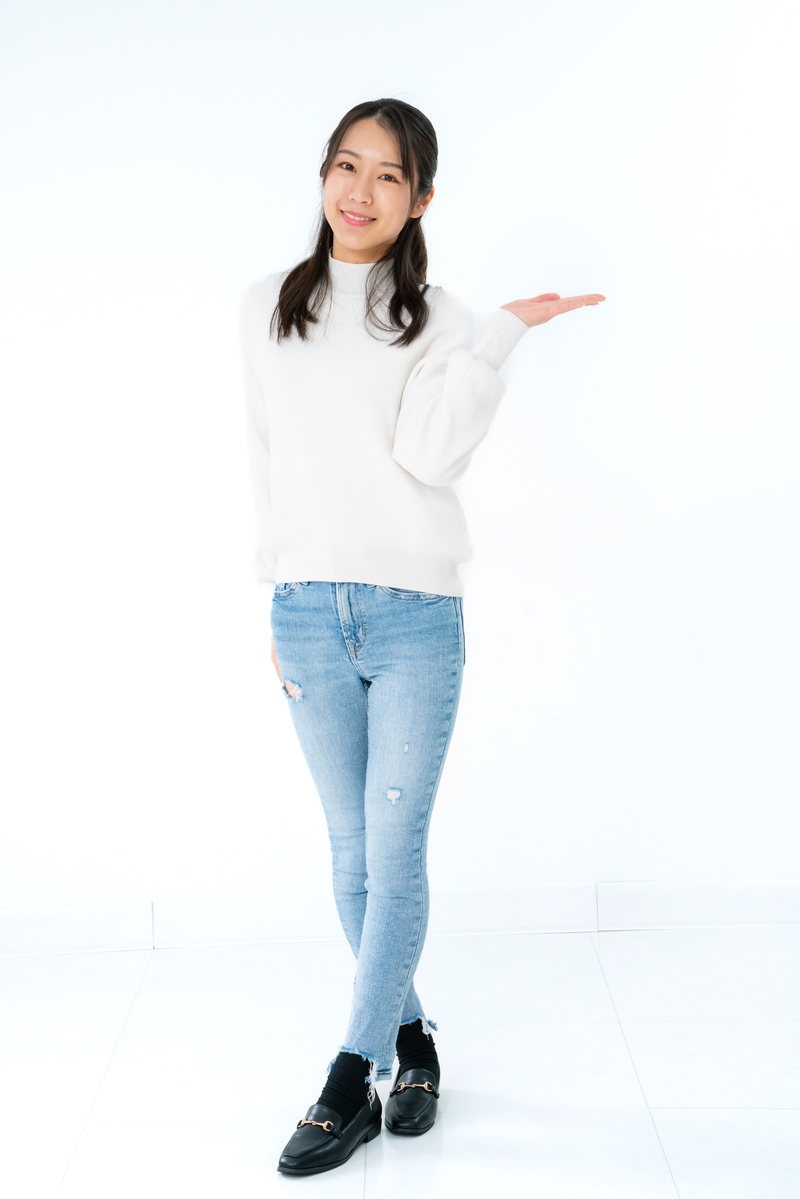
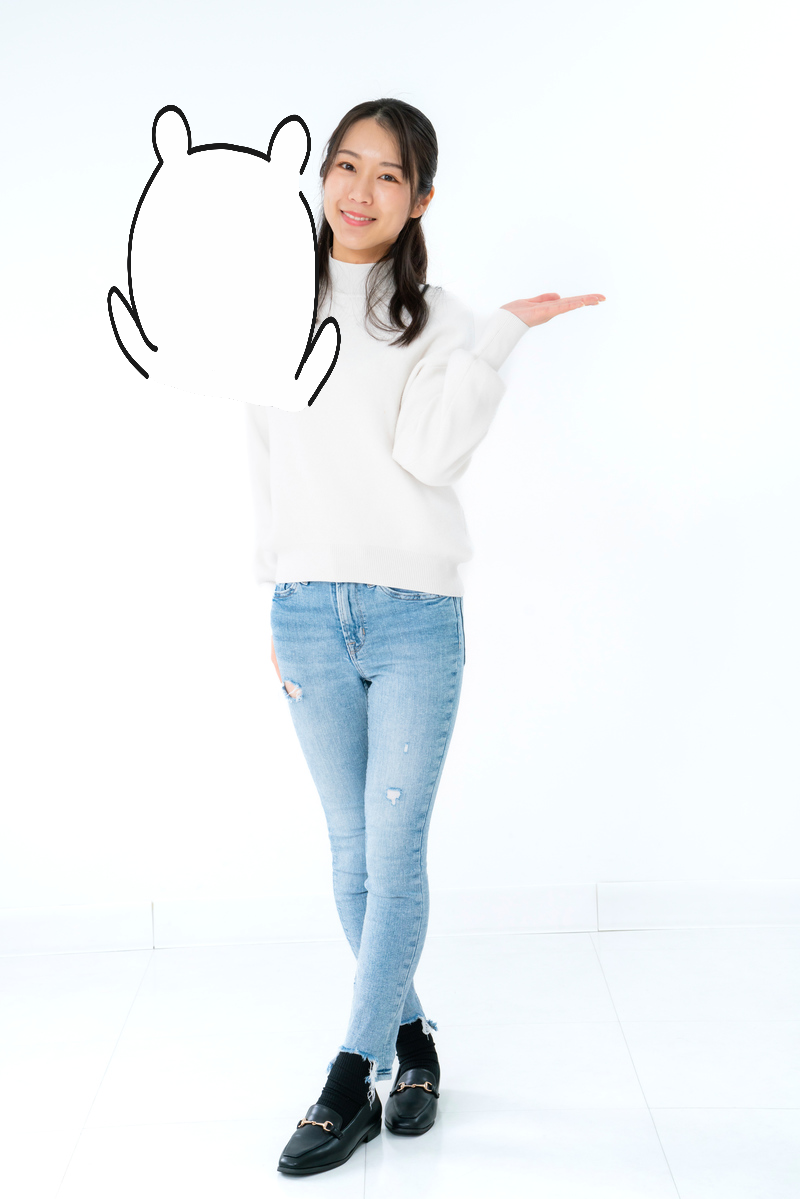
オーバーラップされた
thanks    https://qiita.com/smatsumt/items/923aefb052f217f2f3c5

diff --git a/compressor.py b/compressor.py
@@ -44,21 +44,47 @@ class compressor:
         cv2.imwrite(filename, img)
 
     def face_paste(self, back_img):
-        fore_img = cv2.imread("./images/parts/face.png")
-        return back_img
-        pass
+        fore_img = cv2.imread("./images/parts/face.png",  cv2.IMREAD_UNCHANGED)
+        # return back_img
+        # pass
         dx = 100    # 横方向の移動距離
         dy = 100    # 縦方向の移動距離
         h, w = fore_img.shape[:2]
         face_after_size = (math.floor(h/5), math.floor(w/5))
         fore_img = cv2.resize(fore_img, face_after_size)
-        back_img[dy:dy+h, dx:dx+w] = fore_img
+        back_img = self.alpha_blend(back_img, fore_img, (dx, dy))
+        # back_img[dy:dy+h, dx:dx+w] = fore_img
         return back_img
         
         # cv2.imshow('img',back_img)
         # cv2.waitKey(0)
         # cv2.destroyAllWindows()
+    # https://qiita.com/smatsumt/items/923aefb052f217f2f3c5
+    def alpha_blend(self, frame: np.array, alpha_frame: np.array, position: (int, int)):
+        """
+        frame に alpha_frame をアルファブレンディングで描画する。
 
+        :param frame: ベースとなるフレーム。frame に直接、書き込まれるので、中身が変更される。
+        :param alpha_frame: 重ね合わる画像フレーム。アルファチャンネルつきで読み込まれている前提。
+        :param position: alpha_frame を描画する座標 (x, y)。負の値などはみ出る値も指定可能。
+        :return: 戻り値はなし。frame に直接、描画する。
+
+        usage:
+        base_frame = cv2.imread("bg.jpg")
+        png_image = cv2.imread("alpha.png", cv2.IMREAD_UNCHANGED)  # アルファチャンネル込みで読み込む
+        alpha_blend(base_frame, png_image, (1500, 300))
+        """
+        # 貼り付け先座標の設定 - alpha_frame がはみ出す場合への対処つき
+        x1, y1 = max(position[0], 0), max(position[1], 0)
+        x2 = min(position[0] + alpha_frame.shape[1], frame.shape[1])
+        y2 = min(position[1] + alpha_frame.shape[0], frame.shape[0])
+        ax1, ay1 = x1 - position[0], y1 - position[1]
+        ax2, ay2 = ax1 + x2 - x1, ay1 + y2 - y1
+
+        # 合成!
+        frame[y1:y2, x1:x2] = frame[y1:y2, x1:x2] * (1 - alpha_frame[ay1:ay2, ax1:ax2, 3:] / 255) + \
+                            alpha_frame[ay1:ay2, ax1:ax2, :3] * (alpha_frame[ay1:ay2, ax1:ax2, 3:] / 255)
+        return frame
 class square_reco:
     img_gray = ""
     xml_path = ""
